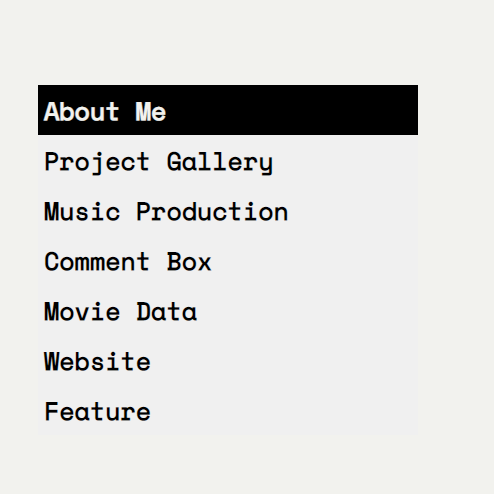
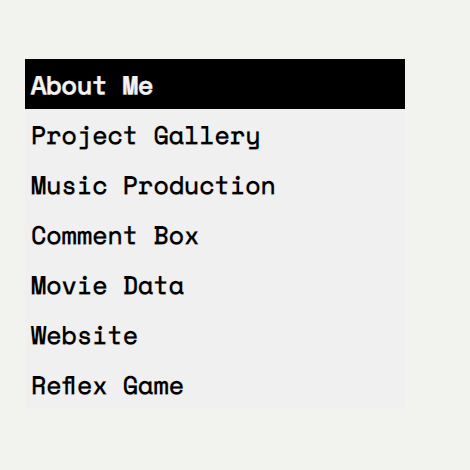
description updates, image changes & js comments

diff --git a/index.html b/index.html
@@ -36,8 +36,8 @@
 						<h2 id="project-title">About Me</h2>
 						<p>
 							Hi! I'm Travis, I'm 28 and have recently started my coding journey in the last few months. I've grown up with computers from a very young age but never thought to
-							build a career off that familiarity until a friend put together and ran a few creative javascript activities over Discord earlier this year. Since then I've been
-							hooked! I then dove straight into Code Academy to learn my html, css and javascript basics over the summer and got cracking with my projects!
+							build a career off that familiarity until a friend put together and ran a few creative JavaScript activities over Discord earlier this year. Since then, I've been
+							hooked! I then dove straight into Code Academy to learn my html, CSS and JavaScript basics over the summer and got cracking with my projects!
 						</p>
 						<img src="images/GitHub-Mark/PNG/GitHub-Mark-120px-plus.png" alt="" target="" id="git-icon" />
 						<a href="https://github.com/tminnaar" target="_blank">github ↗</a>
@@ -45,7 +45,7 @@
 					<div class="project-info project-gallery" style="display: none">
 						<h2 id="project-title">Project Gallery</h2>
 						<p>
-							A card interface gallery of all my projects. Included in each card is an image, a description and links to the relevant github pagesand repository. The amount of
+							A card interface gallery of all my projects. Included in each card is an image, a description and links to the relevant GitHub pages and repository. The amount of
 							cards per row is reduced depending on screen width and each card expands to reveal the description text.
 						</p>
 						<img src="images/GitHub-Mark/PNG/GitHub-Mark-120px-plus.png" alt="" target="" id="git-icon" />
@@ -56,7 +56,7 @@
 						<h2 id="project-title">Music Production</h2>
 						<p>
 							A webpage about music production! It lists some of the equipment I use and a bit of information regarding my workflow. I used flexbox for the first time here and
-							seperated all the sections into columns. Ive also added in embedded soundcloud players.
+							separated all the sections into columns. I've also added in embedded SoundCloud players.
 						</p>
 						<img src="images/GitHub-Mark/PNG/GitHub-Mark-120px-plus.png" alt="" target="" id="git-icon" />
 						<a href="https://github.com/tminnaar/music-production" target="_blank">Repo ↗</a>
@@ -65,9 +65,9 @@
 					<div class="project-info comment-box" style="display: none">
 						<h2 id="project-title">Comment Box</h2>
 						<p>
-							A very simple comment box with 2 inputs for Name and Email Address as well as a text area input for the comment field. I included placeholder text. The comment text
-							area has a character limit of 140 that will turn red when exceded, as well as a required attribute in all fields. On submit, comments are displayed below and persist
-							when a new comment is added.
+							A very simple comment box with 2 inputs for Name and Email Address as well as a text area input for the comment field with placeholders in each field. The comment
+							text area has a character limit of 140 that will turn red when exceeded, as well as a required attribute in all fields. On submit, comments are displayed below and
+							persist when a new comment is added.
 						</p>
 						<img src="images/GitHub-Mark/PNG/GitHub-Mark-120px-plus.png" alt="" target="" id="git-icon" />
 						<a href="https://github.com/tminnaar/comment-box" target="_blank">Repo ↗</a>
@@ -76,8 +76,8 @@
 					<div class="project-info movie-data" style="display: none">
 						<h2 id="project-title">Movie Data</h2>
 						<p>
-							A simple interface using javascript objects to display film posters in a slider with relevant information such as plot, cast, rating etc. displayed on the left. The
-							films are able to be sorted Alphabetically using a button above the slider as well as navigated through using arrows underneath. The user can add or edit their own
+							A simple interface using JavaScript objects to display film posters in a slider with relevant information such as plot, cast, rating etc. displayed on the left. The
+							films are able to be sorted Alphabetically using a button above the slider as well as navigated through using arrows either side. The user can add or edit their own
 							review which is then stored within the key for each film and is persistent when navigating and sorting.
 						</p>
 						<img src="images/GitHub-Mark/PNG/GitHub-Mark-120px-plus.png" alt="" target="" id="git-icon" />
@@ -118,15 +118,19 @@
 				<div id="learnings" class="roboto">
 					<p class="project-info about-me">
 						I started this journey to leave the trenches of retail and start a lifelong career in Tech to better the lives of myself and my family. I'm excited by the diversity in
-						work and oppurtunity in the world of Tech and feel like Web Dev is the perfect stepping stone. I'm drawn the problem solving nature of coding.
+						work and opportunity in the field and feel like Web Dev is the perfect stepping stone into the industry. I'm drawn the problem-solving nature of coding and the
+						creativity, both visually in design and within the nuts and bolts of JavaScript. <br />
+						Most bootcamps require a full-time commitment and charge a hefty fee. Being a father and the current sole-earner, Founders and Coders allows me a to start my journey
+						risk-free while continuing to support my family in my current job.
 					</p>
 					<p class="project-info project-gallery" style="display: none">
 						Using .addEventListener, .querySelector and .classlist.add for the first time, I created a function that changes the class of the element between 2 styles as well as
 						swapping the button textarea between "+Expand" and "-Collapse".
 					</p>
 					<p class="project-info music-production" style="display: none">
-						A webpage about music production! It lists some of the equipment I use and a bit of information regarding my workflow. I used flexbox for the first time here and
-						seperated all the sections into columns. Ive also added in embedded soundcloud players.
+						Using today.get I declared values for the day, month and year. Then using DOM Manipulation and expressions for each value I pushed the string into each paragraph
+						element. Media queries were used to then alter the display at descending screen width intervals to reduce the number of cards on the screen and their widths and alter
+						the font sizing of the headings.
 					</p>
 					<p class="project-info comment-box" style="display: none">
 						Using a Form Element I created inputs within for Name and Email Address and a textarea for the comment. I learnt about focus and active and used stylings to highlight
@@ -140,14 +144,16 @@
 						editing or displaying the reviews and window.confirm helped solved the unexpected issue reviews being saved when navigating or sorting in edit mode.
 					</p>
 					<p class="project-info website" style="display: none">
-						I used psuedo classes more frequently here in order to achieve fill and underline animations on the tabs and keyframe animations to animate the header underline on page
-						load. Within my navigation function I used Array.from to index all the tabs to iterate through and add or remove classes to toggle the display state.
+						I used pseudo classes more frequently here in order to achieve fill and underline animations on the tabs and keyframe animations to animate the header underline on page
+						load. Within my navigation function I used Array.from to index all the tabs to iterate through and add or remove classes to toggle the display state. <br />
+						I managed to include my Reflex Game within the website with some minor CSS changes to account for clashes in sizings and header stylings.
 					</p>
 					<div class="project-info feature" style="display: none">
-						<h2 id="project-title">Feature</h2>
+						<h2 id="project-title">Reflex Game</h2>
 						<p>
-							A reaction time based game with each rounding lasting 30 seconds. The goal is to click as many targets within the time alloted while the targets randomly resize and
-							reposition when clicked. On the left is a panel that display the time remaining, the current score and the high score.
+							A reaction time-based game with each rounding lasting 30 seconds. The goal is to click as many targets within the allotted time while the targets randomly resize and
+							reposition. The panel on the right displays the time remaining, current score and high score which are updated using DOM Manipulation. setInterval is used to
+							countdown the time remaining and update the value in the display panel. setTimeout stops the game, removes the target and allows the user to start again.
 						</p>
 						<img src="images/GitHub-Mark/PNG/GitHub-Mark-120px-plus.png" alt="" target="" id="git-icon" />
 						<a href="https://github.com/tminnaar/reflex-game" target="_blank">Repo ↗</a>
@@ -160,7 +166,7 @@
 					<button id="comment-box" class="underline-hover" onclick="onClickTab('comment-box')">Comment Box</button>
 					<button id="movie-data" class="underline-hover" onclick="onClickTab('movie-data')">Movie Data</button>
 					<button id="website" class="underline-hover" onclick="onClickTab('website')">Website</button>
-					<button id="feature" class="underline-hover" onclick="onClickTab('feature')">Feature</button>
+					<button id="feature" class="underline-hover" onclick="onClickTab('feature')">Reflex Game</button>
 				</div>
 			</div>
 		</div>

diff --git a/reflex-game.js b/reflex-game.js
@@ -16,6 +16,7 @@ let currentScore = 0;
 let timeRemaining = 0;
 let currentHighScore = 0;
 
+//clicking the target randomises its size and position within a range. string interpolation pushes the generated values into the stylings. score value is increased when clicked.
 function targetClick() {
 	const targetSize = Math.floor(Math.random() * (maxTargetSize - minTargetSize)) + minTargetSize;
 	target.style.width = target.style.height = `${targetSize}px`;
@@ -30,26 +31,34 @@ function targetClick() {
 	scoreDisplay.textContent = currentScore;
 }
 
+//initialises the game, resets the timer and current score.
 function startGame() {
 	currentScore = 0;
 	scoreDisplay.textContent = currentScore;
+
+	//hides the menu pop-up.
 	target.style.display = "block";
 	gamePopUp.style.display = "none";
 
 	timeRemaining = timerMaxLength;
+
+	//interpolates the remaining time.
 	timeDisplay.textContent = `${timeRemaining}s`;
 
+	//updates the time remaning value every second.
 	const timerInterval = setInterval(() => {
 		timeRemaining--;
 		timeDisplay.textContent = `${timeRemaining}s`;
 	}, 1000);
 
+	//on time-out hides the target, displays the pop-up and alters the text to "Try Again?"
 	setTimeout(() => {
 		clearInterval(timerInterval);
 		target.style.display = "none";
 		gamePopUp.style.display = "flex";
 		gamePopUpText.textContent = "Try Again?";
 
+		//if the high score is surpassed, the high score display on the left is updated and on time-out the pop-up text becomes "🎉New High Score!🎉Try Again?".
 		if (currentScore > currentHighScore) {
 			currentHighScore = currentScore;
 			highScoreDisplay.textContent = currentHighScore;

diff --git a/navigation.js b/navigation.js
@@ -1,3 +1,4 @@
+//returns an array of all the tab elements to iterate through in order to add styling id's to the selected tab and remove them from the rest.
 function onClickTab(tabName) {
 	const allTabs = document.getElementsByClassName("project-info");
 	Array.from(allTabs).forEach((element) => {

diff --git a/README.md b/README.md
@@ -2,4 +2,4 @@
 
 A single page portfolio with tab navigation and dynamic content. When navigating, classes are added and removed to display the relevant project image, description and learnings. I had a lot of fun exploring stylings for this one. I went for a monochromatic color scheme, a sleek background image and animations on hover and on page load.
 
-I used pseudo classes more frequently here in order to achieve fill and underline animations on the tabs and keyframe animations to animate the header underline on page load. Within my navigation function I used Array.from to index all the tabs to iterate through and add or remove classes to toggle the display state.
+I used pseudo classes more frequently here in order to achieve fill and underline animations on the tabs and keyframe animations to animate the header underline on page load. Within my navigation function I used Array.from to index all the tabs to iterate through and add or remove classes to toggle the display state. I managed to include my Reflex Game within the website with some minor CSS changes to account for clashes in sizings and header stylings.
